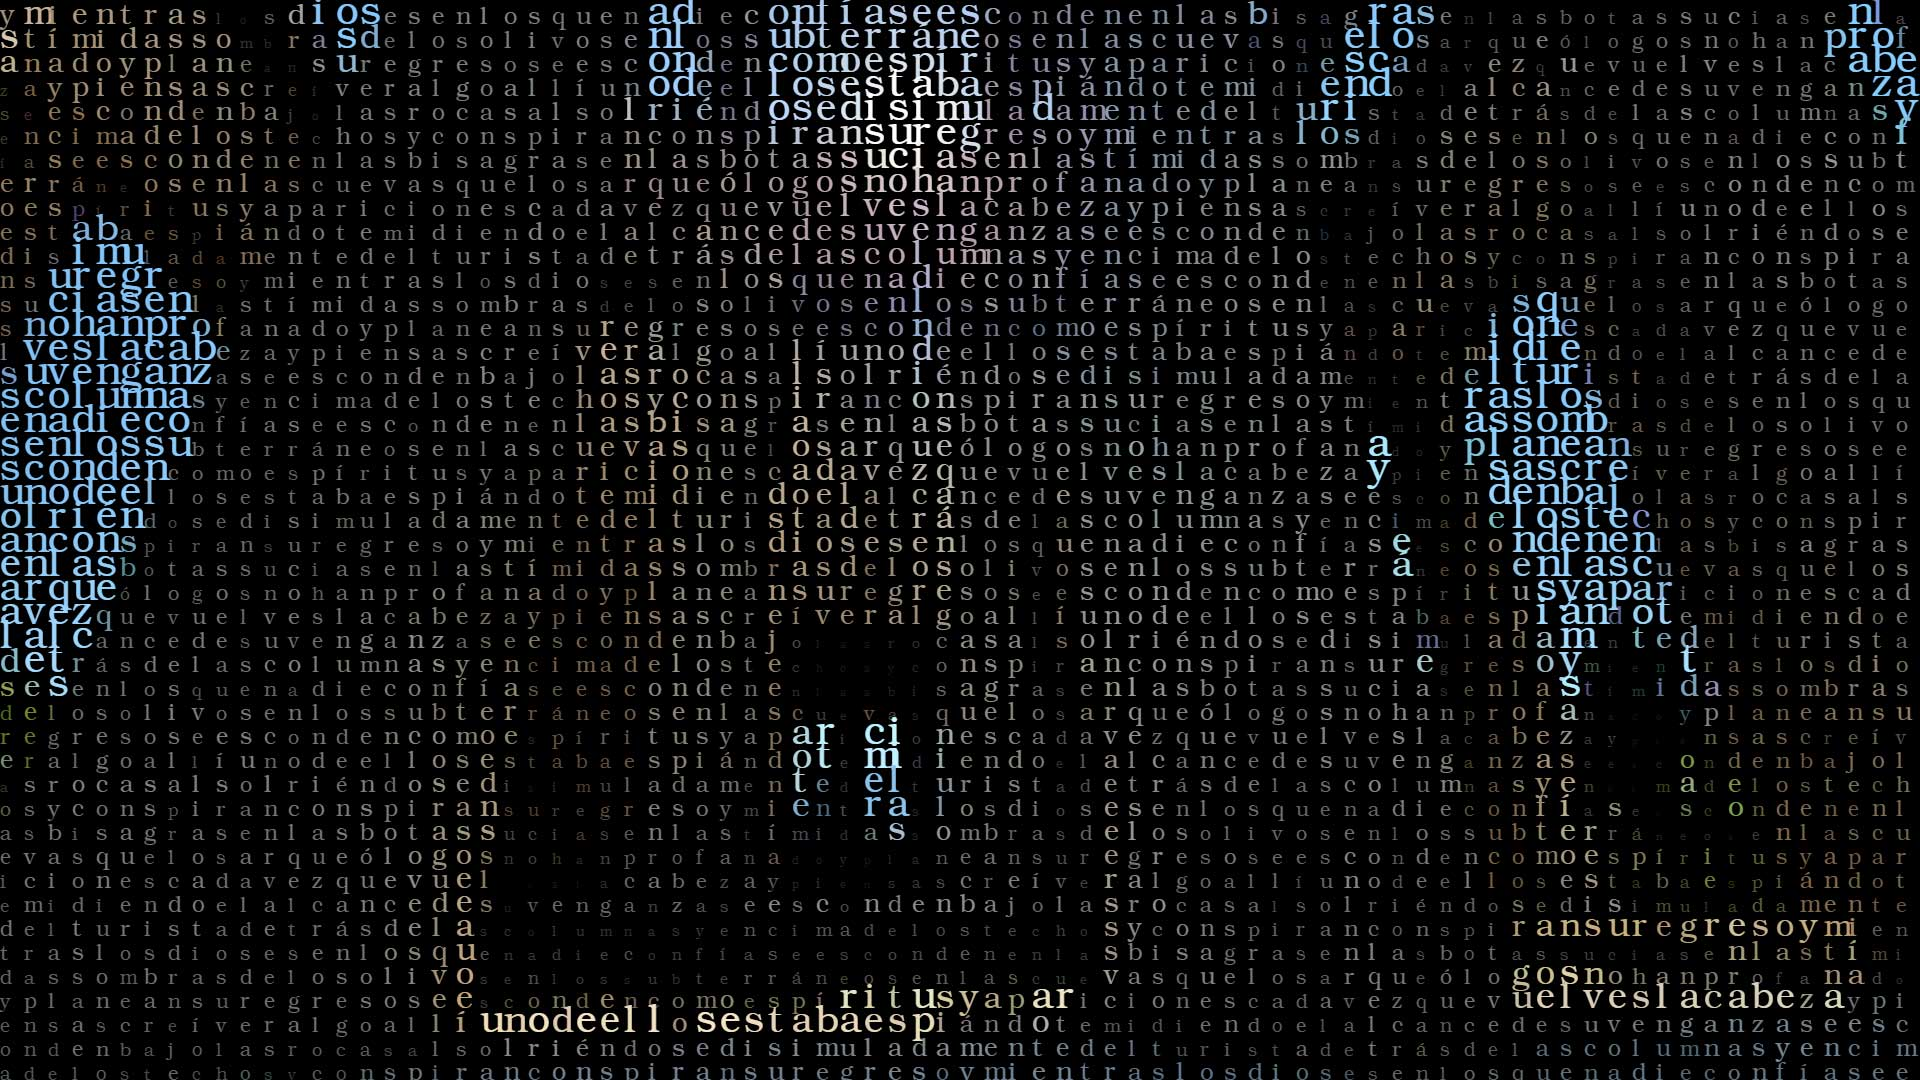
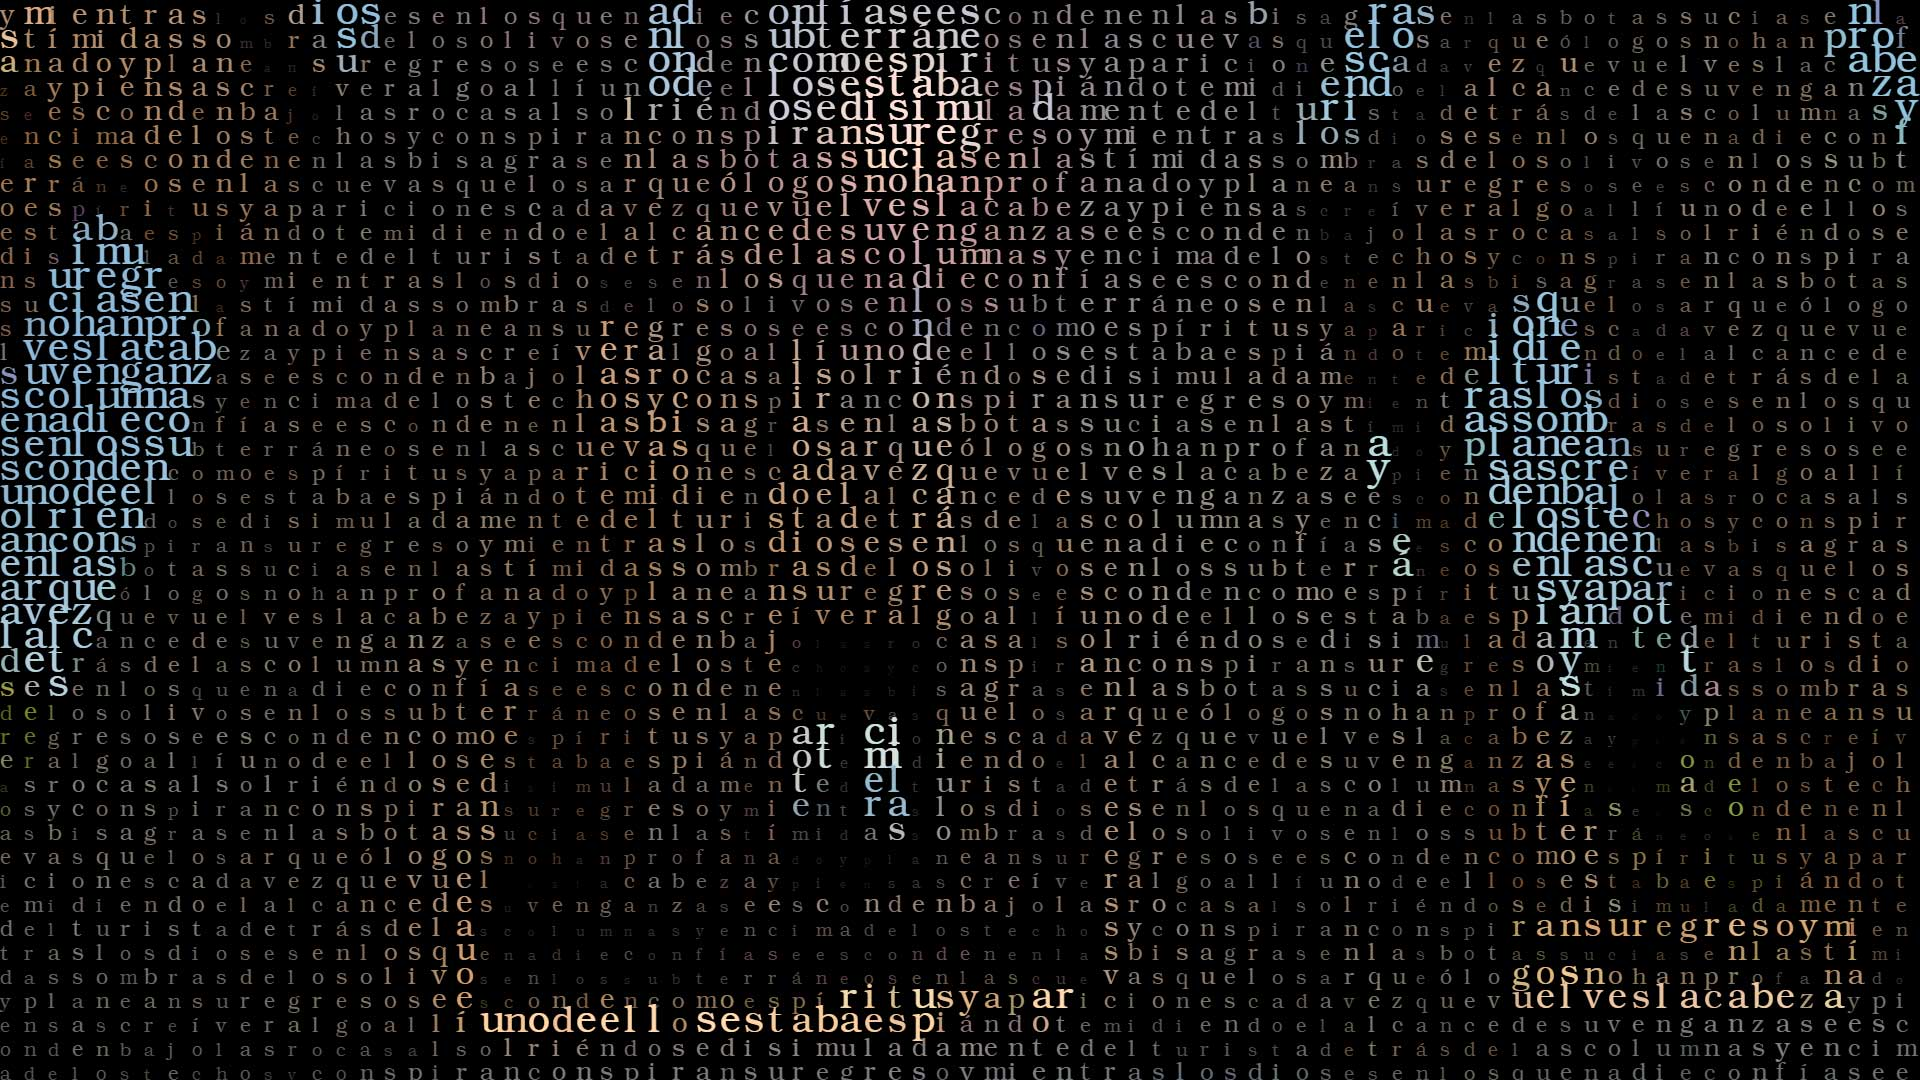
Fixing undefined

diff --git a/www/templates/aart.html b/www/templates/aart.html
@@ -94,8 +94,8 @@
       </div>
       <div class="input-field">
         <select id="font">
-          <option value="3" selected>3</option>
-          <option value="4">4</option>
+          <option value="3">3</option>
+          <option value="4" selected>4</option>
           <option value="5">5</option>
           <option value="6">6</option>
           <option value="7">7</option>
@@ -105,8 +105,8 @@
       <div class="input-field">
         <select id="map">
           <option value="0">Sin mapear</option>
-          <option value="2">2</option>
-          <option value="4" selected>4</option>
+          <option value="2" selected>2</option>
+          <option value="4">4</option>
           <option value="6">6</option>
           <option value="8">8</option>
         </select>

diff --git a/www/static/aart/js/app.js b/www/static/aart/js/app.js
@@ -243,6 +243,11 @@ function processImage() {
     // Set the letter
     if (config.text == "") {
       letterMatrix[pos] = letters[pixelBright];
+      if (!letterMatrix[pos]) {
+        console.log(pixelBright);
+        console.log(letters.length)
+      }
+
     }
     else {
       letterMatrix[pos] = config.text[pos % config.text.length];
@@ -406,7 +411,7 @@ document.addEventListener('DOMContentLoaded', function () {
   // Create an array with the letters in the correct order
   letters = new Array(256);
   for (let i = 0; i < 256; i++) {
-    let j = parseInt(mapNumber(i, 0, 255, 0, letterOrder.length), 10);
+    let j = parseInt(mapNumber(i, 0, 256, 0, letterOrder.length), 10);
     letters[i] = letterOrder[j];
   }
 
